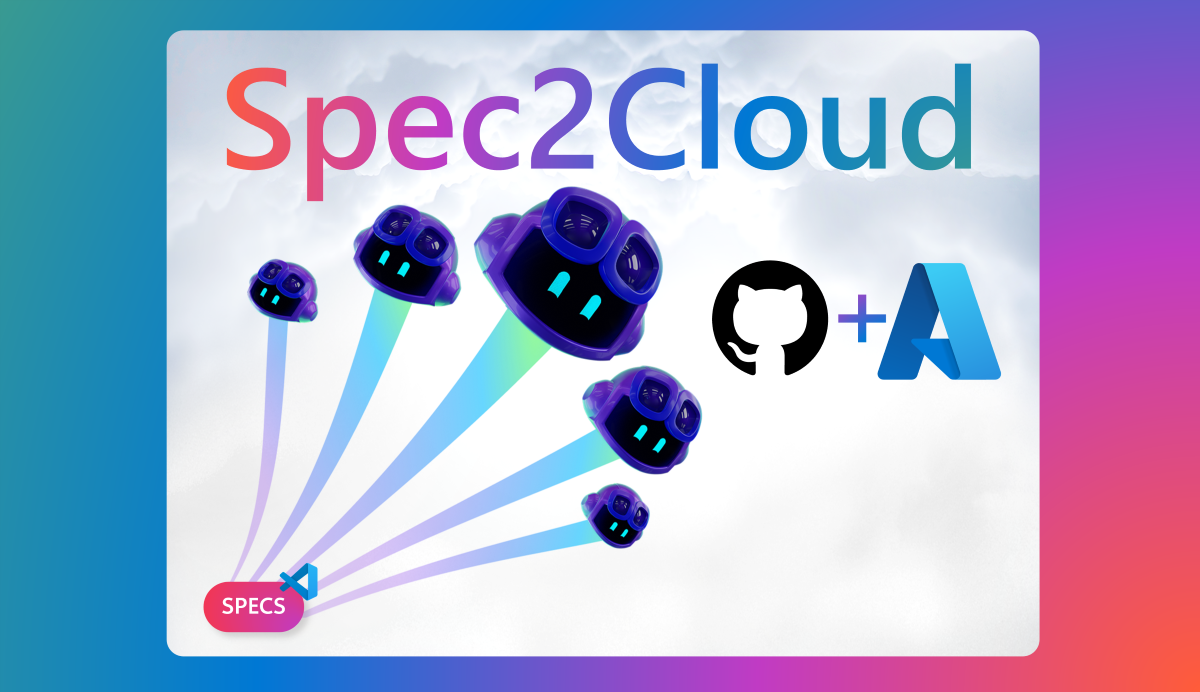
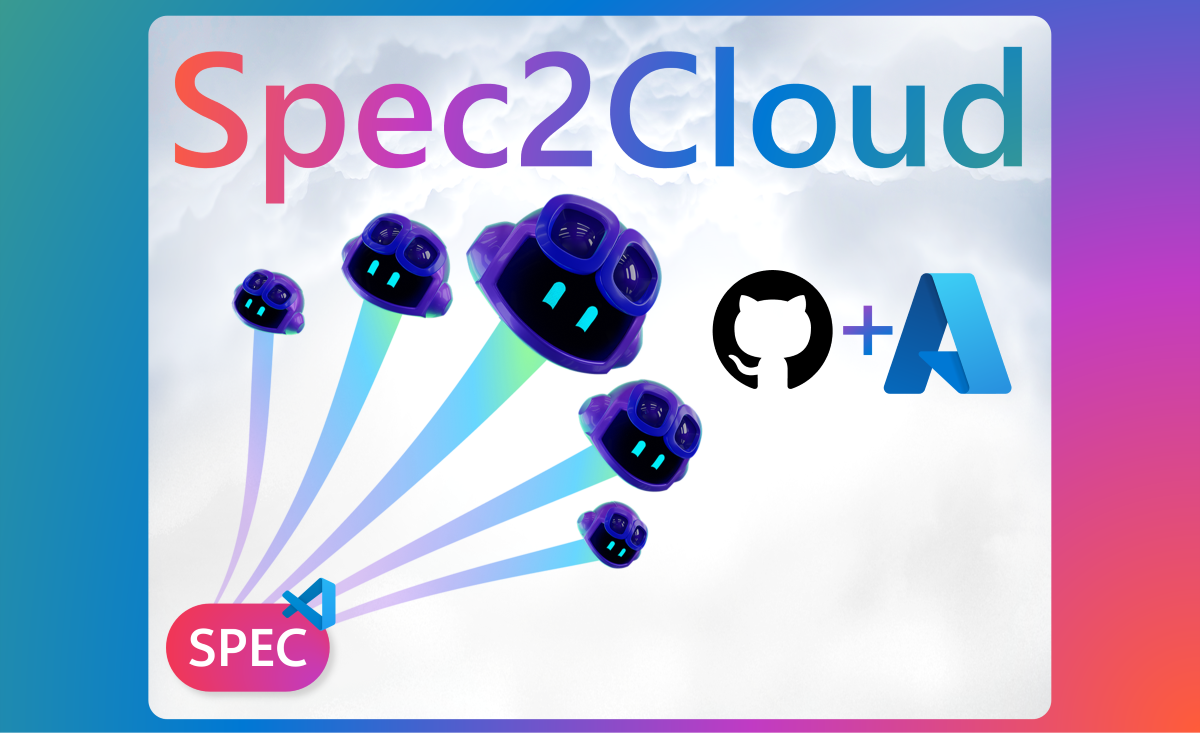
fix: update Open Graph and Twitter Card URLs for consistency and improve image dimensions

Changed region(s): [[0.1233, 0.0, 0.8942, 1.0]]

diff --git a/docs/index.html b/docs/index.html
@@ -11,19 +11,19 @@
     
     <!-- Open Graph tags for Microsoft Teams and social media -->
     <meta data-rh="true" property="og:title" content="Spec2Cloud | Spec-Driven Development with GitHub Copilot and Azure">
-    <meta data-rh="true" property="og:type" content="website"><meta data-rh="true" property="og:url" content="https://azure-samples.github.io/Spec2Cloud/">
+    <meta data-rh="true" property="og:type" content="website"><meta data-rh="true" property="og:url" content="https://aka.ms/spec2cloud">
     <meta data-rh="true" property="og:description" content="Catalog of well-maintained Spec Templates that allows you to quickly bootstrap AI Apps & Agents and Modernize Existing Apps">
     <meta data-rh="true" property="og:image" content="https://azure-samples.github.io/Spec2Cloud/media/Spec2Cloud-og.png">
     <meta property="og:image:secure_url" content="https://azure-samples.github.io/Spec2Cloud/media/Spec2Cloud-og.png">
     <meta property="og:image:type" content="image/png">
     <meta property="og:image:width" content="1200">
-    <meta property="og:image:height" content="692">
+    <meta property="og:image:height" content="733">
     <meta property="og:image:alt" content="Spec2Cloud - Spec-Driven Development with GitHub Copilot and Azure">
     <meta property="og:site_name" content="Spec2Cloud">
     
     <!-- Twitter Card tags -->
     <meta name="twitter:card" content="summary_large_image">
-    <meta name="twitter:url" content="https://azure-samples.github.io/Spec2Cloud/">
+    <meta name="twitter:url" content="https://aka.ms/spec2cloud">
     <meta name="twitter:title" content="Spec2Cloud | Spec-Driven Development with GitHub Copilot and Azure">
     <meta name="twitter:description" content="Catalog of well-maintained Spec Templates that allows you to quickly bootstrap AI applications using GitHub Copilot and Azure.">
     <meta name="twitter:image" content="https://azure-samples.github.io/Spec2Cloud/media/Spec2Cloud-og.png">
